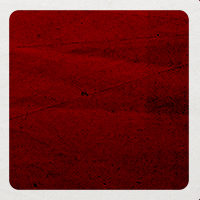
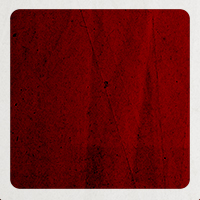
Images are all attached to cards, game works now

diff --git a/script.js b/script.js
@@ -1,4 +1,18 @@
-cardArray=["A","A","B","B","C","C","D","D","E","E","F","F"];
+cardArray=[
+    {text: "A", image: "images/1.png"},
+    {text: "A", image: "images/1.png"},
+    {text: "B", image: "images/2.jpg"},
+    {text: "B", image: "images/2.jpg"},
+    {text: "C", image: "images/3.jpg"},
+    {text: "C", image: "images/3.jpg"},
+    {text: "D", image: "images/4.jpg"},
+    {text: "D", image: "images/4.jpg"},
+    {text: "E", image: "images/5.jpg"},
+    {text: "E", image: "images/5.jpg"},
+    {text: "F", image: "images/6.jpg"},
+    {text: "F", image: "images/6.jpg"}
+
+];
 
 clickedCard=[];
 
@@ -24,9 +38,8 @@ var shuffleDeck=function(){
   }
 }
 ///////////////////////////////////////// End shuffle DECK
-
-shuffleDeck();
-console.log(cardArray);
+  shuffleDeck();
+  console.log(cardArray);
 var board=document.getElementById("board");
 
 for(var i=0; i<cardArray.length; i++){
@@ -36,26 +49,29 @@ for(var i=0; i<cardArray.length; i++){
   cardsBack.classList.add("card");
   board.appendChild(cardsBack);
 
-  // appending letters to cards
-  var letter=document.createElement("p");
-  var arrayNumber=document.createTextNode(cardArray[i]);
-  letter.appendChild(arrayNumber);
-  letter.classList.add("textstyle"); //add css styling to text
-  cardsBack.appendChild(letter);
+  // adding images to cardback
+  var images=document.createElement("img");
+  images.src = cardArray[i].image;
+  images.className="image";
+  cardsBack.appendChild(images);
+
+
 
   // Change color of cards on click
   cardsBack.addEventListener("click",function(){
     var card = this;
     if (clickedCard.length < 2){
-      card.classList.add("front");
+     card.classList.add("image");
       card.classList.add("match");
-      clickedCard.push(card.textContent);
+      clickedCard.push(card.innerHTML);
       matchedCard.push(card);
-      console.log(matchedCard);
+      console.log("this is card" + card);
 
+  console.log("this is clickedCard" + clickedCard);
       //// compares cards that are clicked on
       if (clickedCard.length === 2){
         if (clickedCard[0] === clickedCard[1]){
+
           console.log("It's a match!");
             clickedCard=[];
             matchedCard=[];
@@ -74,17 +90,11 @@ for(var i=0; i<cardArray.length; i++){
 } // close for loop
 
 function turnOffAllCards(){
-  var frontCards = document.querySelectorAll(".front");
+  var frontCards = document.querySelectorAll("div.image:not(.match)");
   for(var i = 0; i < frontCards.length; i++){
-    frontCards[i].classList.remove("front");
+    frontCards[i].classList.remove("image");
     clickedCard=[];
 
   }
-
-
-  /*function turnOffAllCards(){
-    for(var i = 0; i < clickedCard.length; i++){
-      clickedCard[i].classList.remove("front");
-      */
 
 }

diff --git a/style.css b/style.css
@@ -6,6 +6,7 @@ body{
   background-size: cover;
 }
 
+
 h1{
   text-align: center;
   font-size: 4em;
@@ -37,33 +38,39 @@ h1{
   float:right;
   background-image: url("images/back.jpg");
   background-size: 160px 160px;
-  color:transparent;
   border-radius: 10px;
   -moz-box-shadow: -3px 3px 10px #000;
   -webkit-box-shadow: -3px 3px 10px #000;
    box-shadow: -3px 3px 10px #000;
 }
-.card.front{
-  background-image: none;
-  background-color: white;
-  color:gray;
+
+
+.card img{
+  display: none;
 }
 
-.card.match{
-  background-image: none;
-  background-color: white;
-  color:gray;
+.card.image img {
+  display: block;
 }
+
+.image {
+    width: 160px;
+    height: 160px;
+    -webkit-border-radius: 10px;
+    -moz-border-radius: 10px;
+    border-radius: 10px;
+
+  }
+
+.image.match {
+  width: 160px;
+  height: 160px;
+  -webkit-border-radius: 10px;
+  -moz-border-radius: 10px;
+  border-radius: 10px;
+}
+
+
 
 /* <div class="cards">Black</div>  */
 /* <div class="cards front">Blue</div>  */
-
-.textstyle {
-  text-align: center;
-  padding-bottom: 100px;
-  line-height: 10px;
-  font-size: 80px;
-  font-family: 'Bevan', cursive;
-  /*font-family: 'Amatic SC', cursive;*/
-
-}

diff --git a/readme.md b/readme.md
@@ -1,180 +1,43 @@
-# ![](https://ga-dash.s3.amazonaws.com/production/assets/logo-9f88ae6c9c3871690e33280fcf557f33.png) Project #1
+My game link http://maureenv.github.io/project1/
 
-## Make a game!
+This is a memory game created using Javascript, CSS and HTML.
 
-### Overview
+Approach taken (pseudocode);
+* Set up a board with cards
+* Create an array of letter pairs
+* Shuffle the cards in the array
+* Attach each individual letter to a card on the board
+* Create a front and back side to the card. Front side has the letter.
+* Use an event listener to toggle between front and backside of the card
+* Allow the player to click on two cards at a time
+* Compare the letters of the two cards that are clicked
+* If the letters on the card match, the cards should stay facing forward, if not the cards should turn back around.
+* Clear the array that is storing the two cards that are compared so that two new cards can be selected
+* The player will continue playing until all cards are matched
 
-For this project, you'll be creating a familiar game with HTML and JS! Please choose one of the following:
 
-* **War**
-* **Concentration (aka Memory)**
-* **Trivia (Self-scoring)**
-* **Flash Cards**
+Installation Instructions: It runs on the browser, no installation required.
+Technology used: HTML, CSS, Javascript
 
-This is an opportunity to **be creative**, and work through some **tough programming challenges**.
+User Story:
+* The user should be able to click on cards
+* The user should be able to click on two cards and have the computer compare them
+* The user should be able to see if the cards they clicked matched or not (cards have same image)
+* The user should know if the cards they clicked don't match (non-matching cards flip to back side)
+* The user should know if the cards they clicked match (matching cards stay facing forward)
 
-**You will be working individually for this project**, but we'll be guiding you along the process and helping as you go. Show us what you've got!
+Unsolved Problems/ Challenges
 
-### Asking For Help
+The original game I created compared letters to see if the letters match. However, I wanted to change the game so that, the player has to compare images instead of letters. I used images of my artwork to use in my game and cropped them down to the appropriate size.
 
-[Please read!](https://github.com/ga-dc/wdi8/blob/master/asking-for-help.md)
+I thought that because my game works when I'm using letters, I can just replace the letters with images and the game will continue to work. However, I came across many issues. Because I'm using images, I had to manipulate the <img> tag, and the image class in order to get the game to work.
 
----
+When a user clicks on two cards, it pushes them into an array called clickedCard, and also attaches a class of match. If the cards match, they keep the class of match, if not, the class of match is removed, this way I can target only the cards that aren't matching so that I can flip them back around. All of this worked when the cards had letters on them, but stopped working when the letters were replaced with images.  
 
-### Technical Requirements
+The issue arose because when I switched the text for images on my cards, I had to select all the divs with a class of image but NOT a class of match. After getting help from the GA instructors, we came up with this solution:
 
-Your app must:
-
-* **Render in the browser**
-* **Include separate HTML / CSS / JavaScript files**
-* Stick with **KISS (Keep It Simple Stupid)** and **DRY (Don't Repeat Yourself)** principles
-* Use **Javascript or jQuery** for **DOM manipulation**
-* **Deploy online**, using [Github **Project** pages](https://pages.github.com).
-* Use **semantic markup** for HTML and CSS (adhere to best practices)
-
----
-
-### Necessary Deliverables
-
-* A **hosted copy of your game or app, built by you**, hosted on Github Pages
-  * Your HTML/CSS should pass the [HTML5 Validator](https://html5.validator.nu) and [CSS Validator](https://jigsaw.w3.org/css-validator/)
-* A **git repository hosted on Github** with frequent commits dating back to the very beginning of the project
-  * A **link to your hosted project** in the URL section of your Github repo
-  * **A ``readme.md`` file**, including
-    * Explanations of the technologies used, the approach taken, installation instructions, unsolved problems, etc.
-    * At least 5 [user stories](https://github.com/ga-wdi-lessons/agile/blob/249a9641e21dadbb0628ab151ac8107042fb6d60/readme.md#user-stories-how-do-we-figure-out-our-mvp).
-
-The URL section of your Github repo:
-![URL section](http://i.imgur.com/QQ7RsfR.gif)
-
----
-
-### Deploying via GitHub Pages.
-
-**DO NOT** follow the instructions provided by GitHub for creating your Project Pages. Why not? They expect `gh_pages` to be a separate informational site about the project contained in the repo. What we want is to use the `gh_pages` functionality to actually host our application.
-
-Instead, try these steps:
-
-#### 1. Create a gh-pages branch, from master:
-```
-git checkout master
-git checkout -b gh-pages
-```
-#### 2. Initial deploy to origin (via push):
-```
-git push -u origin gh-pages
-```
-#### 3. Verify
-Browse to `<your_github_username>.github.io/<repo_name>`
-
-#### Follow-up deployments:
-After making further changes, deploy via push:
-```
-git push origin gh-pages
+```javascript
+var frontCards = document.querySelectorAll("div.image:not(.match)");
 ```
 
----
-
-### Suggested Ways to Get Started
-
-[Create your bronze, silver, and gold plan.](https://github.com/ga-wdi-lessons/bronze-silver-gold)
-
-* **Break the project down into different components** (data, presentation, views, style, DOM manipulation) and brainstorm each component individually. Use whiteboards!
-* **Use your Development Tools** (console.log, inspector, alert statements, etc) to debug and solve problems
-* Work through the lessons in class & ask questions when you need to! Think about adding relevant code to your game each night, instead of, you know... _procrastinating_.
-* **Commit early, commit often.** Don’t be afraid to break something because you can always go back in time to a previous version.
-* **Consult documentation resources** (MDN, jQuery, etc.) at home to better understand what you’ll be getting into.
-* **Don’t be afraid to write code that you know you will have to remove later.** Create temporary elements (buttons, links, etc) that trigger events if real data is not available. For example, if you’re trying to figure out how to change some text when the game is over but you haven’t solved the win/lose game logic, you can create a button to simulate that until then.
-
----
-
-### Project Choices
-#### War
-<a href="https://en.wikipedia.org/wiki/War_(card_game)">War</a> is a card game typically involving two players. Due to its simplicity, it is played most often by children. (Probably not so simple to program)
-
-*Bonus:*
-  * tieing - Account for how ties work in the war game
-  * multiplayer functionality(3+)
-
-#### Concentration
-Sometimes just called "Memory", it's a card game in which all of the cards are laid face down on a surface and two cards are flipped face up over each turn. If you get all the matching cards, you've won!
-
-*Bonus:*
-  * Let the user choose from different 'decks'
-  * Add timers / scoring based on timers
-  * Think of some fun way to modify the rules of
-
-#### Self-scoring Trivia
-Pre-load your app with some questions and answers.
-
-Test the user's wits & knowledge with whatever-the-heck you know about (so you can actually win). Guess answers, have the computer tell you how
-right you are!
-
-*Bonus:*
-  * Add time-based scoring
-  * Track scores across games (even if the page is reloaded)
-  * Allow users to compete against each other on a high-score board.
-
-#### Flash-Cards
-Pre-load your app with some data, and let the user flip through them quickly (back or front), and use the keyboard flip the card, and to mark whether they got it right or not. Track which cards were incorrect, and re-display them until the user gets them right!
-
-*Bonus:*
-  * Track scores over time (even if the page is reloaded)
-  * Include images on one or both sides of the flash card
-  * Let the user add flash cards (don't need to be saved across refreshes)
-
----
-
-### Useful Resources
-
-* **[MDN Javascript Docs](https://developer.mozilla.org/en-US/docs/Web/JavaScript)** _(a great reference for all things Vanilla Javascript)_
-* **[jQuery Docs](http://api.jquery.com)** _(if you're using jQuery)_
-* **[Github Pages](https://pages.github.com)** _(for hosting your game)_
-
----
-
-### Project Feedback + Evaluation
-
-* __Project Workflow__: Did you complete the user stories, wireframes, task tracking, and/or ERDs, as specified above? Did you use source control as expected for the phase of the program you’re in (detailed above)?
-
-* __Technical Requirements__: Did you deliver a project that met all the technical requirements? Given what the class has covered so far, did you build something that was reasonably complex?
-
-* __Code Quality__: Did you follow code style guidance and best practices covered in class, such as spacing, modularity, and semantic naming? Did you comment your code as your instructors have in class?
-
-* __Problem Solving__: Are you able to defend why you implemented your solution in a certain way? Can you demonstrate that you thought through alternative implementations?
-
-* __Total__: Your instructors will give you a total score on your project between:
-
-Score | Expectations
------ | ------------
-**0** | _Does not meet expectations._
-**1** | _Meets expectactions, good job!_
-**2** | _Exceeds expectations_
-
-This will serve as a helpful overall gauge of whether you met the project goals, but __the more important scores are the individual ones__ above, which can help you identify where to focus your efforts for the next project!
-
-### Schedule
-- Anything not specified here will be considered project work time. Take some time to eat lunch and take breaks. Attendance will be taken at 9 in the classrooms each morning.
-
-Day | Time | Event | who
------ | ------------ | ----- | -----
-Tuesday | 10:00 - 12:30 | Outcomes | everyone
-Thursday | 12:00 | Code freeze/Projects due | everyone
-Thursday | 2:30 - 5:00 | Project 1 Presentations | everyone
-
-### Presentations
-
-All presentations will be science fair style. There will be 3 separate groups. During your group's 45-minute block, you'll set up at a table and demo / discuss your project with the non-presenting students as they walk around.
-
-#### Schedule for Presentations
-You'll be assigned a group number on the day of the presentation.
-
-| Time        | Group  |
-|:-----------:|:------:|
-| 2:00 - 2:40 | 1      |
-| 2:50 - 3:30 | 2      |
-| 3:40 - 4:20 | 3      |
-
-#### Retro
-
-4:30 - 5:15 - [Squad Retro](retro.md)
+Overall, I learned a lot from making this game. There's still a lot I can do to improve the game and will continue to add to it when I learn more.  
